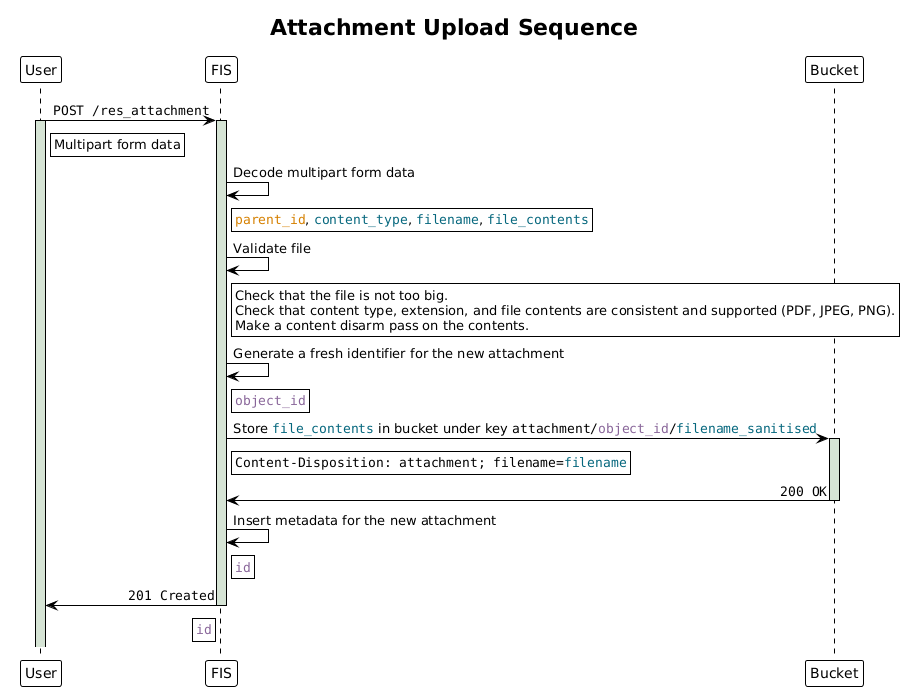
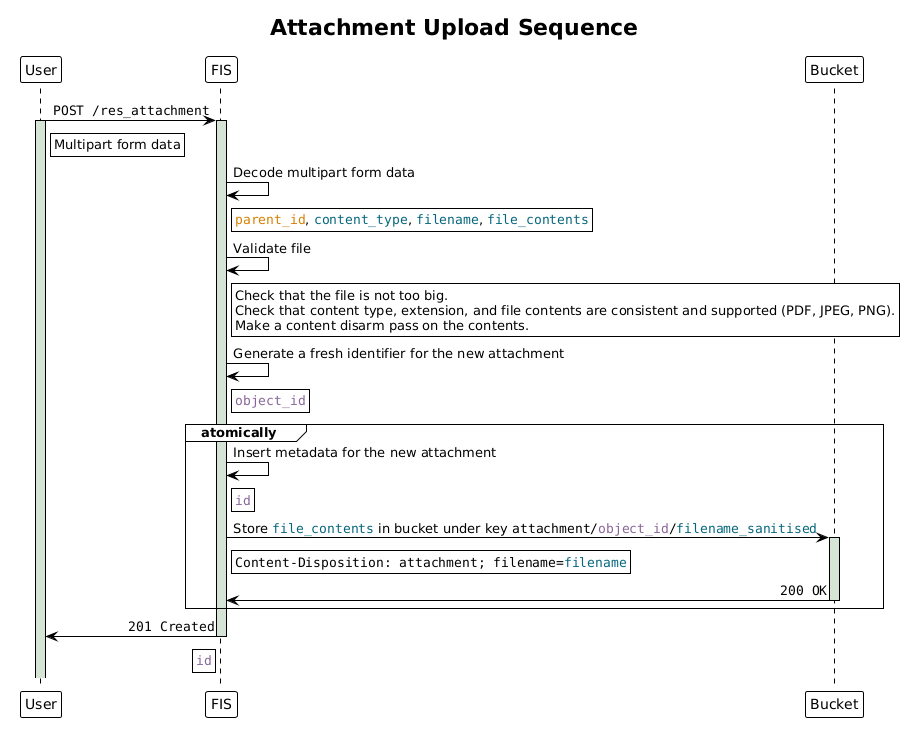
feat: fix transaction handling logic + store metadata first (FLEX-1323)

diff --git a/kbackend/src/main/kotlin/no/elhub/flex/attachment/AttachmentHandler.kt b/kbackend/src/main/kotlin/no/elhub/flex/attachment/AttachmentHandler.kt
@@ -14,6 +14,7 @@ import no.elhub.flex.auth.AccessTokenKey
 import no.elhub.flex.auth.FlexPrincipal
 import no.elhub.flex.auth.FlexRole
 import no.elhub.flex.auth.toFlexPrincipal
+import no.elhub.flex.db.FlexTransaction.flexTransaction
 import no.elhub.flex.model.domain.db.NotFoundError
 import no.elhub.flex.model.error.AppError
 import no.elhub.flex.model.error.ForbiddenError
@@ -117,30 +118,35 @@ class AttachmentHandler(
                 }
                 .bind()
 
-            // upload to storage
+            // insert metadata into DB and upload to storage (atomically)
             val objectId = UUID.randomUUID().toString()
-            attachmentStorageService.upload(objectId, createBody.filename, fileContent)
-                .mapLeft { e ->
-                    logger.error { "Error while uploading $objectId: $e" }
-                    InternalServerError(traceIdOrUnknown())
-                }
-                .bind()
-
-            // insert metadata into DB
             with(principal) {
-                repo.insert(
-                    createBody.baseResourceId,
-                    objectId,
-                    createBody.filename,
-                    fileContent.contentType,
-                    fileContent.bytes.size.toLong(),
-                )
+                flexTransaction {
+                    either {
+                        val metadata = repo.insert(
+                            createBody.baseResourceId,
+                            objectId,
+                            createBody.filename,
+                            fileContent.contentType,
+                            fileContent.bytes.size.toLong(),
+                        )
+                            .map { it.specialise(baseResource) }
+                            .mapLeft { e ->
+                                logger.error { "DB metadata insert failed for objectId=$objectId: $e" }
+                                InternalServerError(traceIdOrUnknown())
+                            }.bind()
+
+                        attachmentStorageService.upload(objectId, createBody.filename, fileContent)
+                            .mapLeft { e ->
+                                logger.error { "Error while uploading $objectId: $e" }
+                                InternalServerError(traceIdOrUnknown())
+                            }
+                            .bind()
+
+                        metadata
+                    }
+                }
             }
-                .map { it.specialise(baseResource) }
-                .mapLeft { e ->
-                    logger.error { "DB insert failed after upload for objectId=$objectId: $e" }
-                    InternalServerError(traceIdOrUnknown())
-                }.bind()
         }.respondJson(call, HttpStatusCode.Created)
     }
 

diff --git a/kbackend/src/test/kotlin/no/elhub/flex/db/FlexTransactionTest.kt b/kbackend/src/test/kotlin/no/elhub/flex/db/FlexTransactionTest.kt
@@ -1,5 +1,6 @@
 package no.elhub.flex.db
 
+import arrow.core.left
 import arrow.core.raise.either
 import arrow.core.right
 import io.kotest.assertions.arrow.core.shouldBeRight
@@ -106,6 +107,40 @@ class FlexTransactionTest : FunSpec({
             }.shouldBeRight()
 
             found shouldBe 1L
+        }
+
+        test("outer transaction is rolled back when block returns Left") {
+            val businessId = uniqueGsrn()
+
+            val result = with(internalPrincipal) {
+                flexTransaction<String, Unit> { conn ->
+                    conn.prepareStatement(
+                        "INSERT INTO flex.accounting_point (business_id) VALUES (?)"
+                    ).use { stmt ->
+                        stmt.setString(1, businessId)
+                        stmt.execute()
+                    }
+
+                    // returning Left must roll back the insert above
+                    "deliberate rollback".left()
+                }
+            }
+
+            result shouldBe "deliberate rollback".left()
+
+            val count = PostgresTestContainer.withConnection { conn ->
+                conn.prepareStatement(
+                    "SELECT count(*) FROM flex.accounting_point WHERE business_id = ?"
+                ).use { stmt ->
+                    stmt.setString(1, businessId)
+                    stmt.executeQuery().use { rs ->
+                        rs.next()
+                        rs.getLong(1)
+                    }
+                }
+            }
+
+            count shouldBe 0L
         }
 
         test("outer transaction is rolled back when block throws an exception") {

diff --git a/kbackend/src/main/kotlin/no/elhub/flex/db/FlexTransaction.kt b/kbackend/src/main/kotlin/no/elhub/flex/db/FlexTransaction.kt
@@ -38,6 +38,12 @@ object FlexTransaction {
     }
 
     /**
+     * Thrown internally by [flexTransaction] to force Exposed to roll back when [block] returns
+     * a [Either.Left]. Carries the left value so it can be re-surfaced after the rollback.
+     */
+    private class LeftRollbackException(val left: Any?) : Exception()
+
+    /**
      * Runs [block] inside an Exposed transaction, applying the RLS preamble only when opening
      * a top-level transaction. When called from within an existing [flexTransaction] the preamble
      * is skipped and the block participates in the outer transaction on the same connection.
@@ -50,19 +56,35 @@ object FlexTransaction {
      * entity IDs are set to `0`. Otherwise `auth.eid_details($eid)` is called to resolve them
      * from the identity table.
      *
+     * If [block] returns a [Either.Left] the transaction is **rolled back** and the [Either.Left]
+     * value is returned to the caller. A [Either.Right] result commits the transaction normally.
+     *
      * @param block the transactional work; receives the raw [java.sql.Connection]
      */
+    @Suppress("UNCHECKED_CAST")
     context(principal: FlexPrincipal)
     suspend fun <L, R> flexTransaction(block: suspend (Connection) -> Either<L, R>): Either<L, R> {
         val isNested = currentCoroutineContext()[InFlexTransaction.Key] != null
-        return withContext(InFlexTransaction) {
-            suspendTransaction(db) {
-                val conn = this.connection.connection as Connection
-                if (!isNested) {
-                    applyPreamble(conn, principal)
+        return try {
+            withContext(InFlexTransaction) {
+                suspendTransaction(db) {
+                    val conn = this.connection.connection as Connection
+                    if (!isNested) {
+                        applyPreamble(conn, principal)
+                    }
+                    val result = block(conn)
+
+                    // Throw to force Exposed to roll back instead of committing.
+
+                    // exception will be caught by the Exposed transaction handler, so that the
+                    // transaction is rolled back, then it throws the exception again for us
+                    if (result is Either.Left) throw LeftRollbackException(result.value)
+                    result
                 }
-                block(conn)
             }
+            // then we catch the exception again here to return the Left value to the caller
+        } catch (e: LeftRollbackException) {
+            Either.Left(e.left as L)
         }
     }
 

diff --git a/test/api_client_tests/test_spgpa_attachment.py b/test/api_client_tests/test_spgpa_attachment.py
@@ -1,18 +1,3 @@
-"""
-Tests for SPGPAA (Service Providing Group Product Application Attachment).
-
-Focuses on:
-  - SPGPAA-FISO001: FISO can upload, download, and delete attachments.
-  - SPGPAA-SP001: SP can upload, download, and delete their own attachments,
-    but cannot access attachments on another SP's SPGPA.
-  - SPGPAA-COM001: only involved parties (procuring SO and SP of the SPG) can
-    read attachments on a SPGPA.
-
-Note: the 'upload with read-only scope returns 403' case is not included because
-the real auth server always issues manage+read scopes together; testing scope
-restrictions at the JWT level requires an in-process test setup.
-"""
-
 from io import BytesIO
 from typing import cast
 

diff --git a/docs-dev/attachments.md b/docs-dev/attachments.md
@@ -247,7 +247,7 @@ The bucket operations are therefore done in a way that we think of it as a
 dependency:
 
 - an object ID represents a reference, so we consider it _necessary_ for the
-  object to exist in the bucket before we create the metadata
+  object to exist in the bucket before we commit the metadata
 - deleting the object in the bucket can be considered as an internal operation
   to perform in the background: as long as the metadata is deleted, the object
   is no longer visible/reachable from our API, so it is effectively "deleted".
@@ -257,12 +257,12 @@ that does not exist, given that nothing other than our system interacts with the
 bucket.
 
 Both points above mean, however, that we accept the possibility of having dead
-objects in the bucket. Indeed, a network error after upload before creating the
-metadata can cause duplicates, losing the reference to the oldest one, as the
-API returns an error and we lose the object ID forever. And a network error
-after deleting metadata will be made silent because we do not want to return an
-internal server error on a delete operation if not strictly necessary, for user
-experience reasons. There we also lose the object ID forever. To solve this
+objects in the bucket. Indeed, a network error happening right after file upload
+before committing the metadata will return an internal error, causing the user
+to possibly retry uploading, losing the reference to the oldest file. A network
+error after deleting metadata will be made silent because we do not want to
+return an internal error on a delete operation if not strictly necessary, for
+better user experience: there we also lose the object ID forever. To solve this
 issue, we can have a background worker that sometimes goes through all objects
 in the bucket and all attachments in our system, and deletes objects that are no
 longer referenced, because the system has no way to use them anyway.